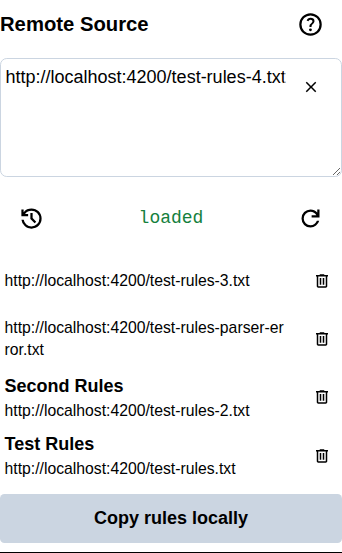
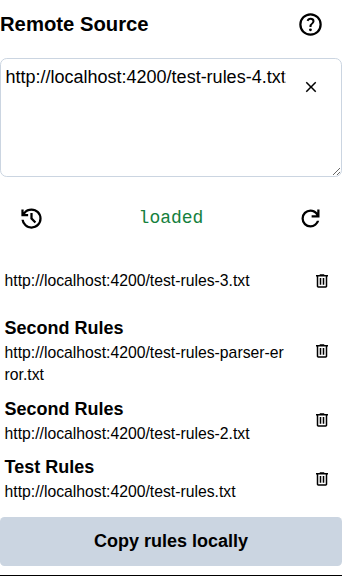
use new resource snapshot api

diff --git a/libs/state/src/lib/slices/rules-parsing-state.ts b/libs/state/src/lib/slices/rules-parsing-state.ts
@@ -2,10 +2,8 @@ import {
   computed,
   effect,
   inject,
-  Resource,
+  resourceFromSnapshots,
   ResourceSnapshot,
-  ResourceStatus,
-  signal,
 } from '@angular/core';
 import { Parser } from '@travel-packlist/model';
 
@@ -14,84 +12,68 @@ import { RulesSourceState } from './rules-source-state';
 
 type Rules = ReturnType<Parser['parseRules']>;
 
-class RulesParsingResource implements Resource<Rules> {
-  readonly value = signal<Rules>([]);
-  readonly error = signal<Error | undefined>(undefined);
-  readonly status = signal<ResourceStatus>('idle');
-  readonly snapshot = computed(
-    () =>
-      ({
-        value: this.value(),
-        error: this.error(),
-        status: this.status(),
-      }) as ResourceSnapshot<Rules>,
-  );
-
-  constructor(
-    private readonly parser: Parser,
-    private readonly raw: Resource<string | undefined>,
-    private readonly trackWeight: () => void,
-    private readonly setCurrentTitle: (title: string) => void,
-  ) {
-    effect(() => {
-      this.trackWeight();
-      if (
-        this.raw.status() === 'resolved' &&
-        this.raw.hasValue() &&
-        typeof this.raw.value() === 'string'
-      ) {
-        try {
-          const rules = this.parser.parseRules(this.raw.value());
-          if (rules.title) {
-            this.setCurrentTitle(rules.title);
-          }
-          this.value.set(rules);
-          this.error.set(undefined);
-          this.status.set('resolved');
-        } catch (error) {
-          this.error.set(error as Error);
-          this.status.set('error');
-        }
-      }
-    });
-  }
-
-  get isLoading() {
-    return this.raw.isLoading;
-  }
-
-  hasValue(): this is Resource<Rules> {
-    return true;
-  }
-
-  asReadonly(): Resource<Rules> {
-    return {
-      value: this.value.asReadonly(),
-      error: this.error.asReadonly(),
-      status: this.status.asReadonly(),
-      isLoading: this.isLoading,
-      hasValue: this.hasValue.bind(this),
-      snapshot: this.snapshot,
-    };
-  }
-}
-
 export const rulesParsingState = ({
   config: { trackWeight },
   rules: { raw },
-  remoteRules: { setCurrentTitle },
+  remoteRules: { setCurrentTitleForHistory },
 }: RulesSourceState & ConfigState) => {
-  const parsed = new RulesParsingResource(
-    inject(Parser),
-    raw,
-    trackWeight,
-    setCurrentTitle,
+  const parser = inject(Parser);
+
+  let previousRules: Rules = [];
+  const parsed = resourceFromSnapshots(
+    computed<ResourceSnapshot<Rules>>(() => {
+      trackWeight();
+      if (
+        raw.status() === 'resolved' &&
+        raw.hasValue() &&
+        typeof raw.value() === 'string'
+      ) {
+        try {
+          const rules = parser.parseRules(raw.value());
+          previousRules = rules;
+          return {
+            value: rules,
+            status: 'resolved' as const,
+            error: undefined,
+          };
+        } catch (error) {
+          return {
+            status: 'error' as const,
+            value: previousRules,
+            error: error as Error,
+          };
+        }
+      } else if (raw.status() === 'error') {
+        return {
+          status: 'error' as const,
+          value: previousRules,
+          error: raw.error() ?? new Error('Unknown error while loading rules'),
+        };
+      } else if (raw.isLoading()) {
+        return {
+          status: 'loading' as const,
+          value: previousRules,
+        };
+      } else {
+        return {
+          status: 'idle' as const,
+          value: previousRules,
+        };
+      }
+    }),
   );
+
+  effect(() => {
+    if (parsed.hasValue()) {
+      const rules = parsed.value();
+      setCurrentTitleForHistory(rules.title);
+    }
+  });
 
   return {
     rules: {
       /** derived: parsed rules */
-      parsed: parsed.asReadonly(),
+      parsed,
       /** derived: rules source and parser error */
       hasError: computed(
         () => parsed.status() === 'error' || raw.status() === 'error',

diff --git a/libs/state/src/lib/slices/rules-source-state.ts b/libs/state/src/lib/slices/rules-source-state.ts
@@ -177,18 +177,29 @@ export const rulesSourceState = ({
 
   const loadRemote = function (url: string) {
     if (remote() !== url) {
-      mode.set('remote');
+      if (mode() !== 'remote') {
+        mode.set('remote');
+      }
       remote.set(url);
     }
   };
 
-  const setCurrentTitle = function (title: string) {
+  const setCurrentTitleForHistory = function (title: string | undefined) {
     const url = remote();
     if (mode() === 'remote' && url) {
-      historyTitles.update((titles) => ({
-        ...titles,
-        [url]: title,
-      }));
+      historyTitles.update((titles) => {
+        if (title) {
+          return {
+            ...titles,
+            [url]: title,
+          };
+        } else {
+          const newTitles = { ...titles };
+          // eslint-disable-next-line @typescript-eslint/no-dynamic-delete
+          delete newTitles[url];
+          return newTitles;
+        }
+      });
     }
   };
 
@@ -242,7 +253,7 @@ export const rulesSourceState = ({
       /** load remote rules */
       load: loadRemote,
       /** set title of current rules for remote history, only use in parser */
-      setCurrentTitle,
+      setCurrentTitleForHistory,
       /** remote rules history */
       history: computed(() =>
         remoteHistory().map((url) => ({ url, title: historyTitles()[url] })),

diff --git a/apps/travel-packlist/src/app/pages/config/config-rules-remote/config-rules-remote.component.ts b/apps/travel-packlist/src/app/pages/config/config-rules-remote/config-rules-remote.component.ts
@@ -80,9 +80,10 @@ export class ConfigRulesRemoteComponent {
   );
   readonly remoteHistoryVisible = signal(false);
 
-  private readonly formModel = linkedSignal(
+  private readonly firstHistoryEntry = computed(
     () => this.state.remoteRules.history()[0]?.url || '',
   );
+  private readonly formModel = linkedSignal(() => this.firstHistoryEntry());
 
   control = form(this.formModel, (path) => {
     // TODO: replace with validate on blur once API is available